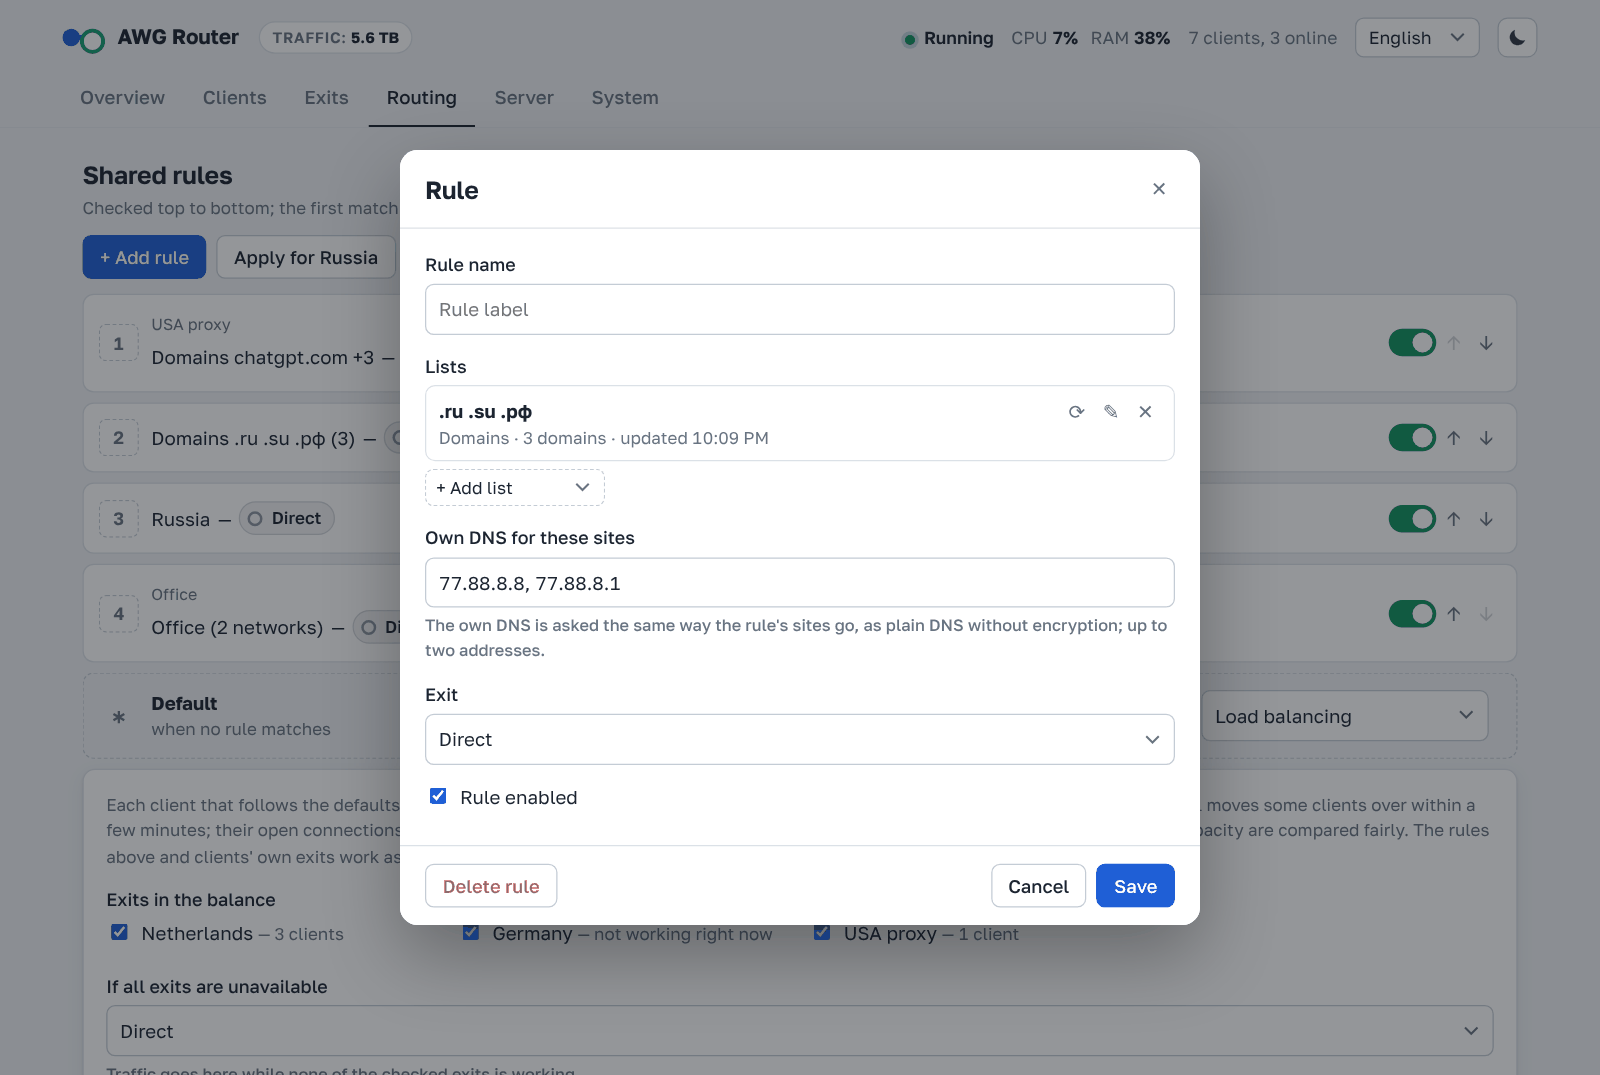
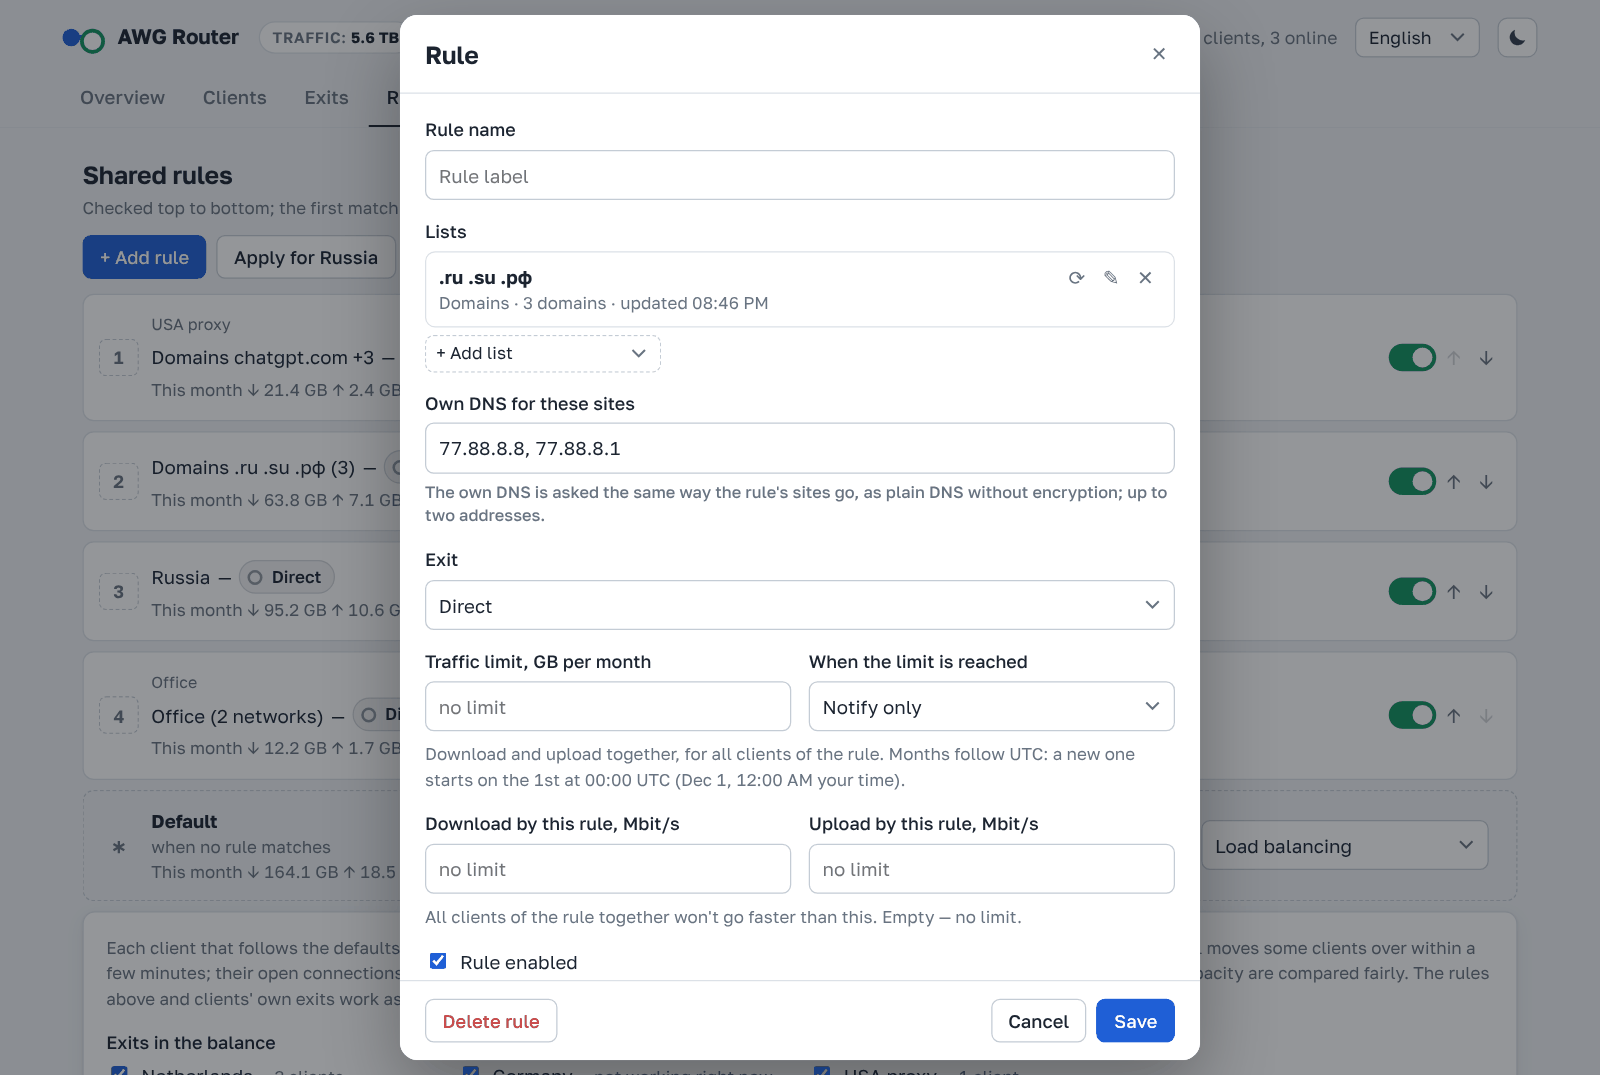
Screenshots: Routing with traffic by rule

diff --git a/tools/screenshots/make.py b/tools/screenshots/make.py
@@ -173,7 +173,7 @@ def build(api: Api, rules: bool = True) -> dict:
                                         "period": "month", "rate_down": 10, "rate_up": 5})
     api("PUT", "settings", {"shaping": {"down": 900, "up": 200}})
     api("PUT", f"limits/{q('Anna MacBook')}", {"quota_gb": 150, "period": "month"})
-    return {"pk": pk, "nl": nl, "de": de, "us": us}
+    return {"pk": pk, "nl": nl, "de": de, "us": us, "rules": [r["id"] for r in api("GET", "state")["routing"]["rules"]]}
 
 
 def write_traffic(data_dir: str, ids: dict) -> None:
@@ -199,6 +199,9 @@ def write_traffic(data_dir: str, ids: dict) -> None:
         total = [total[0] + int(tu * GB), total[1] + int(td * GB)]
         month = [month[0] + int(mu * GB), month[1] + int(md * GB)]
     out["server"] = {"total": total, "months": {mk: month}}
+    # трафик по правилам за месяц (1.24.0): USA proxy, домены России, Россия, Office и «По умолчанию» (балансировка)
+    by_rule = dict(zip(ids["rules"], ((21.4, 2.4), (63.8, 7.1), (95.2, 10.6), (12.2, 1.7))))
+    out["rules"] = {k: {"months": {mk: pair(d, u)}} for k, (d, u) in {**by_rule, "_default": (164.1, 18.5)}.items()}
     with open(os.path.join(data_dir, "traffic.json"), "w") as f:
         json.dump(out, f)
 
